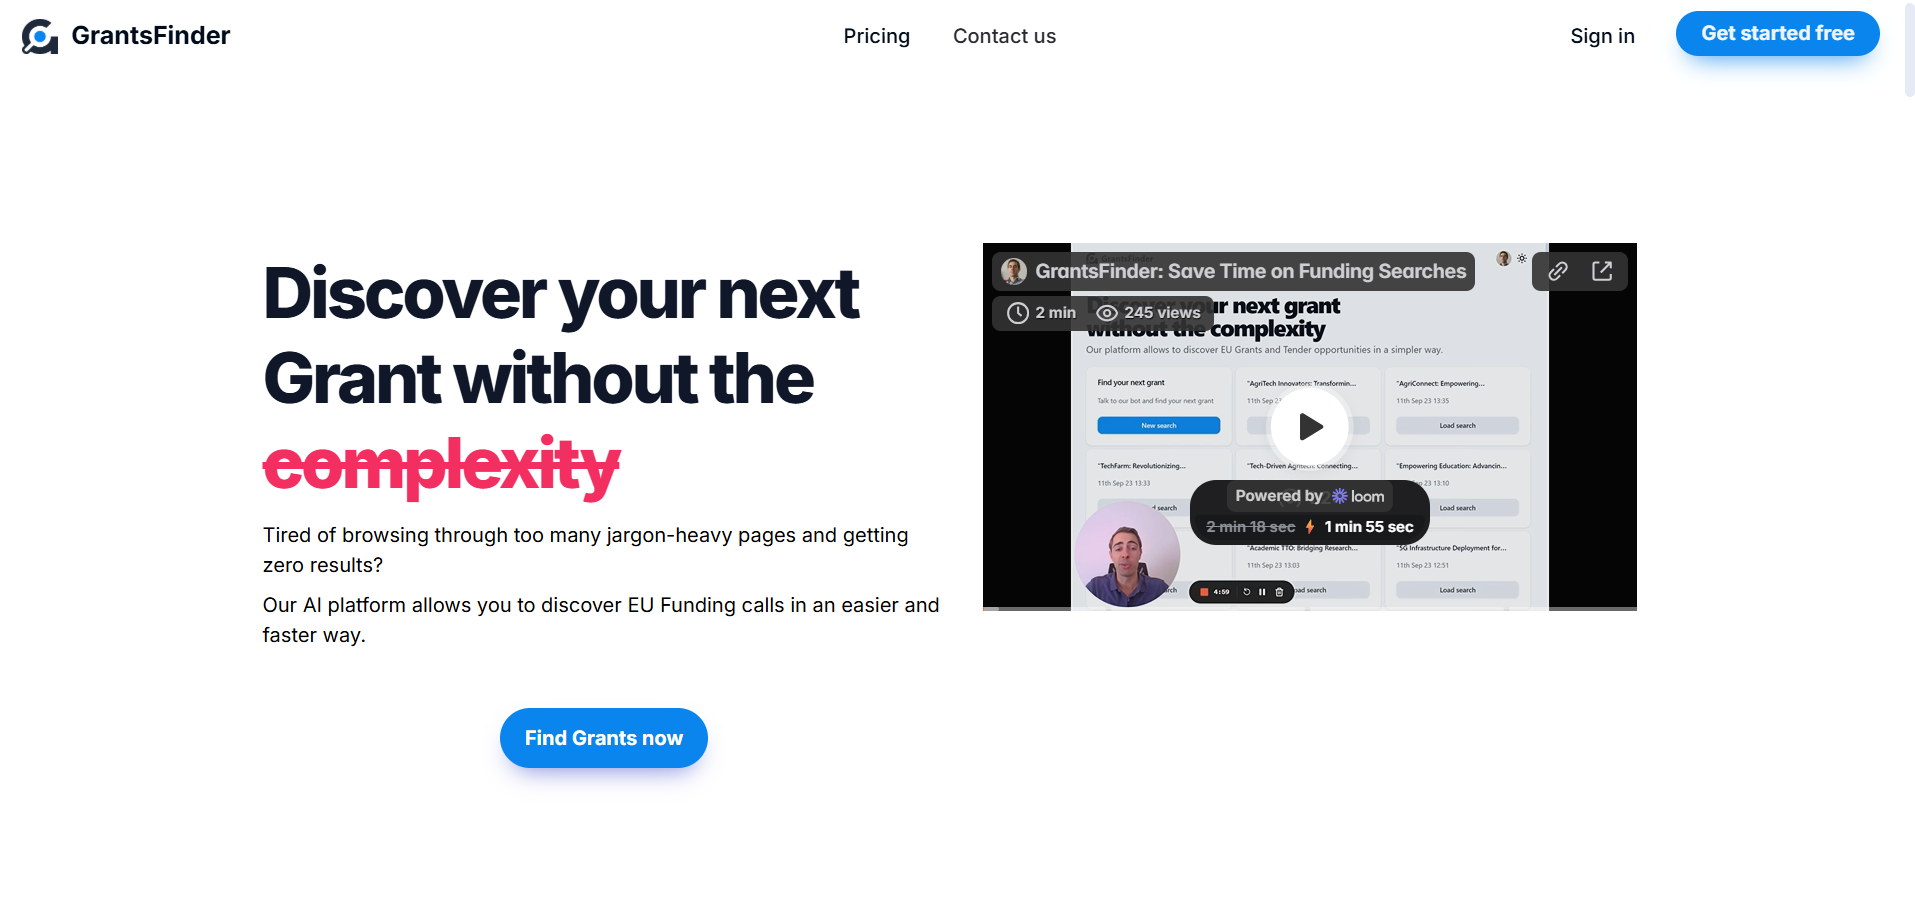
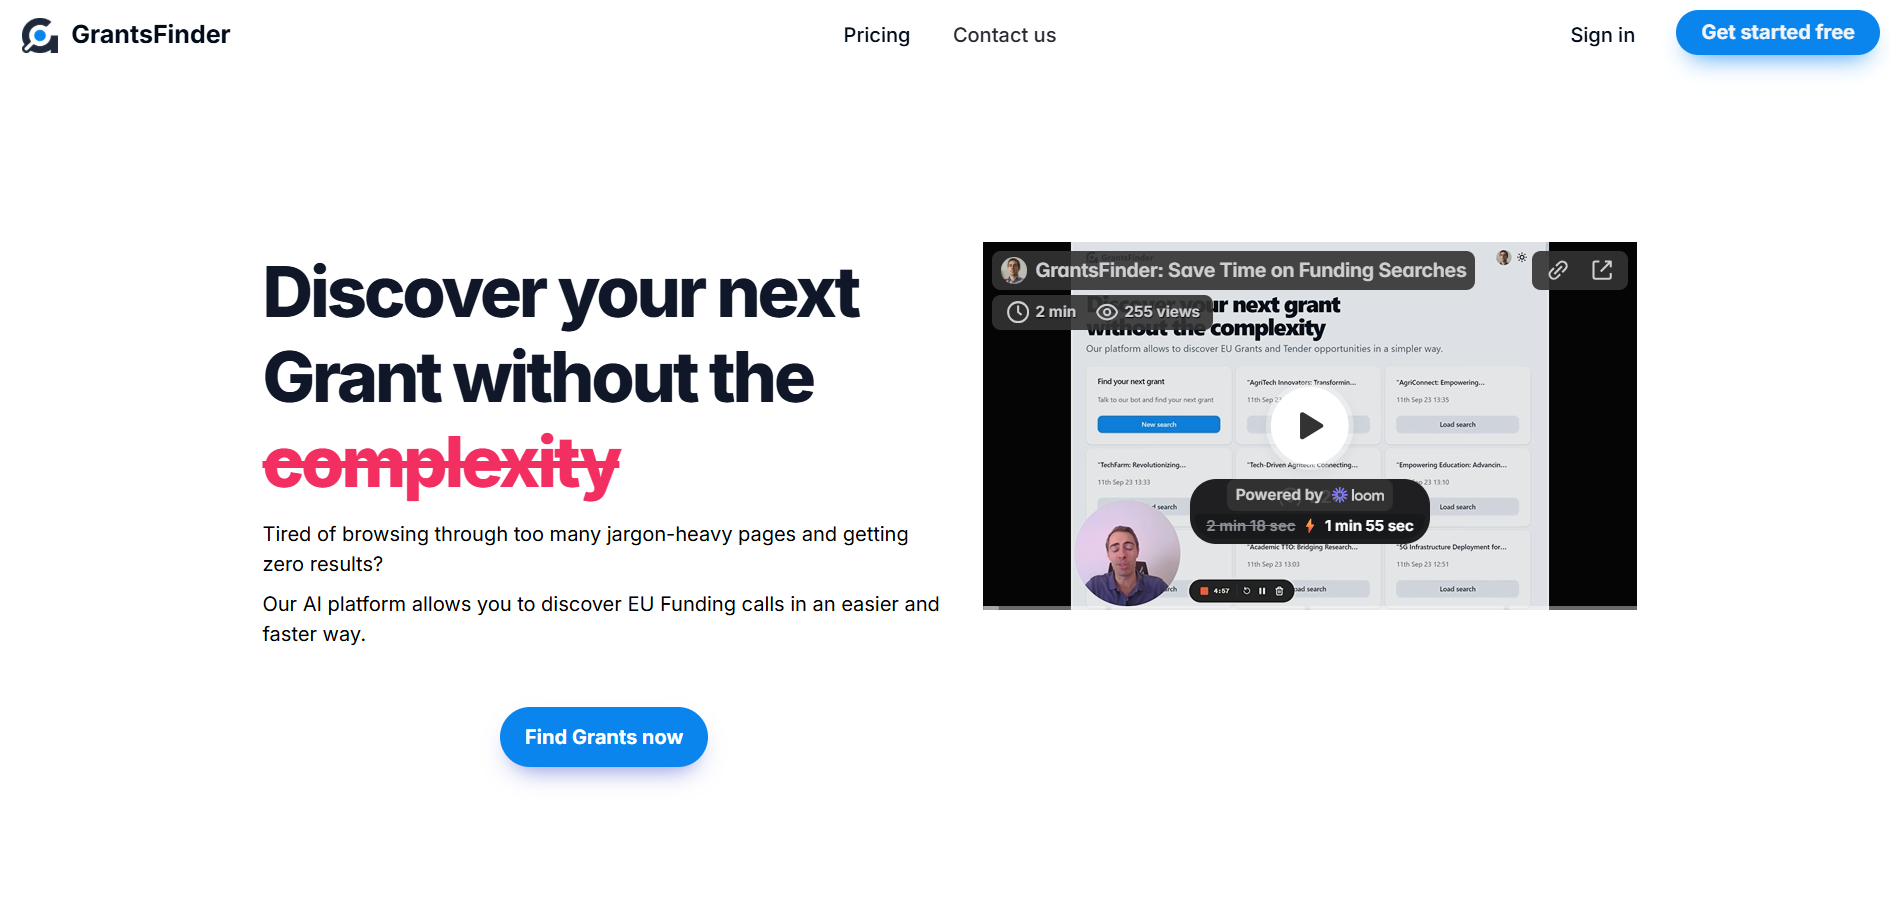
GrantsFinder, Timesheets, LimpiezApp and Stories projects description

diff --git a/src/app/projects/page.tsx b/src/app/projects/page.tsx
@@ -28,8 +28,12 @@ export default function Projects() {
               </div>
               <div className='m-3'>
                 <p className='text-2xl font-semibold font-ubuntu'>Stories</p>
-                <p className='font-ubuntu mt-3'>Posted: </p>
-                <p className='font-ubuntu mt-7'>Read more</p>
+                <p className='font-ubuntu mt-3'>Posted: {postedDate(new Date(2025, 7, 14))}</p>
+                <div className='mt-7'>
+                  <Link href="/projects/stories" className='font-ubuntu text-[#1976d2] hover:underline w-auto'>
+                    Read more
+                  </Link>
+                </div>
               </div>
           </div>
 
@@ -44,8 +48,12 @@ export default function Projects() {
               </div>
               <div className='m-3'>
                 <p className='text-2xl font-semibold font-ubuntu'>LimpiezApp</p>
-                <p className='font-ubuntu mt-3'>Posted: </p>
-                <p className='font-ubuntu mt-7'>Read more</p>
+                <p className='font-ubuntu mt-3'>Posted: {postedDate(new Date(2025, 7, 14))}</p>
+                <div className='mt-7'>
+                  <Link href="/projects/limpiezapp" className='font-ubuntu text-[#1976d2] hover:underline w-auto'>
+                    Read more
+                  </Link>
+                </div>
               </div>
           </div>
 
@@ -60,8 +68,12 @@ export default function Projects() {
               </div>
               <div className='m-3'>
                 <p className='text-2xl font-semibold font-ubuntu'>Timesheets</p>
-                <p className='font-ubuntu mt-3'>Posted: </p>
-                <p className='font-ubuntu mt-7'>Read more</p>
+                <p className='font-ubuntu mt-3'>Posted: {postedDate(new Date(2025, 7, 14))}</p>
+                <div className='mt-7'>
+                  <Link href="/projects/timesheets" className='font-ubuntu text-[#1976d2] hover:underline w-auto'>
+                    Read more
+                  </Link>
+                </div>
               </div>
           </div>
 
@@ -76,8 +88,12 @@ export default function Projects() {
               </div>
               <div className='m-3'>
                 <p className='text-2xl font-semibold font-ubuntu'>GrantsFinder</p>
-                <p className='font-ubuntu mt-3'>Posted: </p>
-                <p className='font-ubuntu mt-7'>Read more</p>
+                <p className='font-ubuntu mt-3'>Posted: {postedDate(new Date(2025, 7, 14))}</p>
+                <div className='mt-7'>
+                  <Link href="/projects/grantsfinder" className='font-ubuntu text-[#1976d2] hover:underline w-auto'>
+                    Read more
+                  </Link>
+                </div>
               </div>
           </div>
 

diff --git a/src/app/projects/grantsfinder/page.tsx b/src/app/projects/grantsfinder/page.tsx
@@ -1,0 +1,32 @@
+import Link from 'next/link'
+import React from 'react'
+
+export default function GrantsFinder() {
+  return (
+    <div className='justify-items-center overflow-x-hidden'>
+        <div className='mt-10'>
+            <p className='text-4xl font-semibold font-ubuntu'>GrantsFinder</p>
+        </div>
+        <div className='m-5 mt-10 max-w-3xl md:mt-12 xl:mt-10'>
+            <div>
+                <img src='/grantsfinder.png' className='' />
+                <div className='mt-5'>
+                    <span className='font-semibold font-ubuntu'>Tecnology used:</span>
+                    <span className='font-ubuntu'> Next.js</span>
+                </div>
+                <div className='mt-5 font-ubuntu'>
+                    <p>
+                        AI chatbot application specializing in EU grants aiming to match projects with upcoming opportunities, and which allows you to discover opportunities for grants 
+                        and competitions of the EU in a simpler way.
+                    </p>
+                </div>
+                <div className='flex mt-5 space-x-4'>
+                    <Link href="https://www.grantsfinder.eu/" className='font-ubuntu text-[#1976d2] hover:underline w-auto'>
+                        <p className='font-ubuntu'>Try it here</p>
+                    </Link>
+                </div>
+            </div>
+        </div>
+    </div>
+  )
+}

diff --git a/src/app/projects/timesheets/page.tsx b/src/app/projects/timesheets/page.tsx
@@ -1,0 +1,26 @@
+import React from 'react'
+
+export default function Timesheets() {
+  return (
+    <div className='justify-items-center overflow-x-hidden'>
+        <div className='mt-10'>
+            <p className='text-4xl font-semibold font-ubuntu'>Timesheets</p>
+        </div>
+        <div className='m-5 mt-10 max-w-3xl md:mt-12 xl:mt-10'>
+            <div>
+                <img src='/timesheets.jpeg' className='' />
+                <div className='mt-5'>
+                    <span className='font-semibold font-ubuntu'>Tecnology used:</span>
+                    <span className='font-ubuntu'> Angular and .NET</span>
+                </div>
+                <div className='mt-5 font-ubuntu'>
+                    <p>
+                        Web application where employees can manage they're working hours and holidays in a calendar. It also has a record of the projects each one is working on, the 
+                        clients they work for, and also allows employees to export a PDF file with a table that contains the number of working hours they worked on each day in a month.
+                    </p>
+                </div>
+            </div>
+        </div>
+    </div>
+  )
+}

diff --git a/src/app/projects/limpiezapp/page.tsx b/src/app/projects/limpiezapp/page.tsx
@@ -1,0 +1,26 @@
+import React from 'react'
+
+export default function LimpiezApp() {
+  return (
+    <div className='justify-items-center overflow-x-hidden'>
+        <div className='mt-10'>
+            <p className='text-4xl font-semibold font-ubuntu'>LimpiezApp</p>
+        </div>
+        <div className='m-5 mt-10 max-w-3xl md:mt-12 xl:mt-10'>
+            <div>
+                <img src='/limpiezapp.jpeg' className='' />
+                <div className='mt-5'>
+                    <span className='font-semibold font-ubuntu'>Tecnology used:</span>
+                    <span className='font-ubuntu'> Angular and .NET</span>
+                </div>
+                <div className='mt-5 font-ubuntu'>
+                    <p>
+                        Web application whose objective is to manage service orders for Elior, with different user profiles (administrator, supervisor and specialist) and the flow of 
+                        their statuses (not assigned, assigned, in progress, completed and validated).
+                    </p>
+                </div>
+            </div>
+        </div>
+    </div>
+  )
+}

diff --git a/src/app/projects/stories/page.tsx b/src/app/projects/stories/page.tsx
@@ -1,0 +1,26 @@
+import React from 'react'
+
+export default function Stories() {
+  return (
+    <div className='justify-items-center overflow-x-hidden'>
+        <div className='mt-10'>
+            <p className='text-4xl font-semibold font-ubuntu'>Stories</p>
+        </div>
+        <div className='m-5 mt-10 max-w-3xl md:mt-12 xl:mt-10'>
+            <div>
+                <img src='/stories.png' className='' />
+                <div className='mt-5'>
+                    <span className='font-semibold font-ubuntu'>Tecnology used:</span>
+                    <span className='font-ubuntu'> Next.js and .NET</span>
+                </div>
+                <div className='mt-5 font-ubuntu'>
+                    <p>
+                        Web application that allows users to create and export CVs in PDF format, called “stories”. Users can manage personal information, professional experience and 
+                        education.
+                    </p>
+                </div>
+            </div>
+        </div>
+    </div>
+  )
+}
